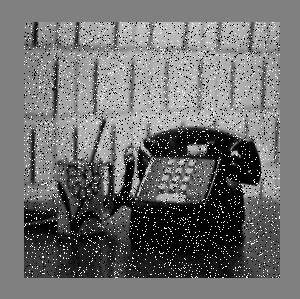
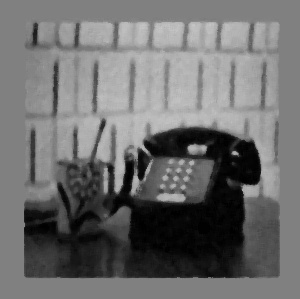
Update Imwrite Median Filter photo

diff --git a/Median Filter.py b/Median Filter.py
@@ -6,7 +6,7 @@ median_image = cv2.medianBlur(image, ksize = 5)
 cv2.imshow('Original Image',image)
 cv2.imshow('Median Filter Image', median_image)
 
-cv2.imwrite('Images/Median Filter Image.jpg', image)
+cv2.imwrite('Images/Median Filter Image.jpg', median_image)
 
 cv2.waitKey(0)
 cv2.destroyAllWindows()
